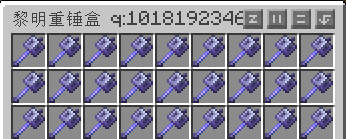
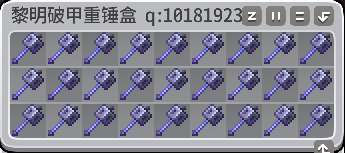
feat: update item listings and images

diff --git a/index.html b/index.html
@@ -172,7 +172,6 @@
       max-width: 100%;
       margin: 0 auto;
       object-fit: contain;
-      background: #fff;
     }
 
     .business,
@@ -336,8 +335,12 @@
           <img src="Data/Kits/equipment/018.png" width="341" height="139" alt="黎明长矛盒">
         </article>
         <article class="kit-card">
-          <h3>黎明重锤盒（破甲）</h3>
-          <img src="Data/Kits/equipment/019.png" width="341" height="139" alt="黎明重锤盒（破甲）">
+          <h3>破甲重锤</h3>
+          <img src="Data/Kits/equipment/019.png" width="341" height="139" alt="破甲重锤">
+        </article>
+        <article class="kit-card">
+          <h3>致密重锤</h3>
+          <img src="Data/Kits/equipment/021.png" width="341" height="139" alt="致密重锤">
         </article>
         <article class="kit-card">
           <h3>Star8989日常kit</h3>
@@ -432,8 +435,8 @@
           <img src="Data/Kits/all-items/001.png" width="341" height="139" alt="附魔书">
         </article>
         <article class="kit-card">
-          <h3>红石</h3>
-          <img src="Data/Kits/all-items/002.png" width="341" height="139" alt="红石">
+          <h3>音乐盒</h3>
+          <img src="Data/Kits/all-items/034.png" width="341" height="139" alt="音乐盒">
         </article>
         <article class="kit-card">
           <h3>模板图鉴</h3>
@@ -500,80 +503,128 @@
           <img src="Data/Kits/all-items/018.png" width="341" height="139" alt="全方块套装-12">
         </article>
         <article class="kit-card">
-          <h3>画图套装-1</h3>
+          <h3>全物品-1</h3>
+          <img src="Data/Kits/all-items/038.png" width="341" height="139" alt="全物品-1">
+        </article>
+        <article class="kit-card">
+          <h3>全物品-2</h3>
+          <img src="Data/Kits/all-items/039.png" width="341" height="139" alt="全物品-2">
+        </article>
+        <article class="kit-card">
+          <h3>全物品-3</h3>
+          <img src="Data/Kits/all-items/040.png" width="341" height="139" alt="全物品-3">
+        </article>
+        <article class="kit-card">
+          <h3>全物品-4</h3>
+          <img src="Data/Kits/all-items/041.png" width="341" height="139" alt="全物品-4">
+        </article>
+        <article class="kit-card">
+          <h3>全物品-5</h3>
+          <img src="Data/Kits/all-items/042.png" width="341" height="139" alt="全物品-5">
+        </article>
+        <article class="kit-card">
+          <h3>全物品-6</h3>
+          <img src="Data/Kits/all-items/043.png" width="341" height="139" alt="全物品-6">
+        </article>
+        <article class="kit-card">
+          <h3>全物品-7</h3>
+          <img src="Data/Kits/all-items/044.png" width="341" height="139" alt="全物品-7">
+        </article>
+        <article class="kit-card">
+          <h3>全物品-8</h3>
+          <img src="Data/Kits/all-items/045.png" width="341" height="139" alt="全物品-8">
+        </article>
+        <article class="kit-card">
+          <h3>全物品-9</h3>
+          <img src="Data/Kits/all-items/046.png" width="341" height="139" alt="全物品-9">
+        </article>
+        <article class="kit-card">
+          <h3>全物品-10</h3>
+          <img src="Data/Kits/all-items/047.png" width="341" height="139" alt="全物品-10">
+        </article>
+        <article class="kit-card">
+          <h3>全物品-11</h3>
+          <img src="Data/Kits/all-items/048.png" width="341" height="139" alt="全物品-11">
+        </article>
+        <article class="kit-card">
+          <h3>全物品-12</h3>
+          <img src="Data/Kits/all-items/049.png" width="341" height="139" alt="全物品-12">
+        </article>
+        <article class="kit-card">
+          <h3>全物品-13</h3>
+          <img src="Data/Kits/all-items/050.png" width="341" height="139" alt="全物品-13">
+        </article>
+        <article class="kit-card">
+          <h3>全物品-14</h3>
+          <img src="Data/Kits/all-items/051.png" width="341" height="139" alt="全物品-14">
+        </article>
+        <article class="kit-card">
+          <h3>全物品-15</h3>
+          <img src="Data/Kits/all-items/052.png" width="341" height="139" alt="全物品-15">
+        </article>
+        <article class="kit-card">
+          <h3>全物品-16</h3>
+          <img src="Data/Kits/all-items/053.png" width="341" height="139" alt="全物品-16">
+        </article>
+        <article class="kit-card">
+          <h3>全物品-17</h3>
+          <img src="Data/Kits/all-items/054.png" width="341" height="139" alt="全物品-17">
+        </article>
+        <article class="kit-card">
+          <h3>画图套装-1（缺货）</h3>
           <img src="Data/Kits/all-items/019.png" width="341" height="139" alt="画图套装-1">
         </article>
         <article class="kit-card">
-          <h3>画图套装-2</h3>
+          <h3>画图套装-2（缺货）</h3>
           <img src="Data/Kits/all-items/020.png" width="341" height="139" alt="画图套装-2">
         </article>
         <article class="kit-card">
-          <h3>画图套装-3</h3>
+          <h3>画图套装-3（缺货）</h3>
           <img src="Data/Kits/all-items/021.png" width="341" height="139" alt="画图套装-3">
         </article>
         <article class="kit-card">
-          <h3>画图套装-4</h3>
+          <h3>画图套装-4（缺货）</h3>
           <img src="Data/Kits/all-items/022.png" width="341" height="139" alt="画图套装-4">
         </article>
         <article class="kit-card">
-          <h3>画图套装-5</h3>
+          <h3>画图套装-5（缺货）</h3>
           <img src="Data/Kits/all-items/023.png" width="341" height="139" alt="画图套装-5">
         </article>
         <article class="kit-card">
-          <h3>画图套装-6</h3>
+          <h3>画图套装-6（缺货）</h3>
           <img src="Data/Kits/all-items/024.png" width="341" height="139" alt="画图套装-6">
         </article>
         <article class="kit-card">
-          <h3>画图套装-7</h3>
+          <h3>画图套装-7（缺货）</h3>
           <img src="Data/Kits/all-items/025.png" width="341" height="139" alt="画图套装-7">
         </article>
         <article class="kit-card">
-          <h3>画图套装-8</h3>
+          <h3>画图套装-8（缺货）</h3>
           <img src="Data/Kits/all-items/026.png" width="341" height="139" alt="画图套装-8">
         </article>
         <article class="kit-card">
-          <h3>画图套装-9</h3>
+          <h3>画图套装-9（缺货）</h3>
           <img src="Data/Kits/all-items/027.png" width="341" height="139" alt="画图套装-9">
         </article>
         <article class="kit-card">
-          <h3>画图套装-10</h3>
+          <h3>画图套装-10（缺货）</h3>
           <img src="Data/Kits/all-items/028.png" width="341" height="139" alt="画图套装-10">
         </article>
         <article class="kit-card">
-          <h3>画图套装-11</h3>
+          <h3>画图套装-11（缺货）</h3>
           <img src="Data/Kits/all-items/029.png" width="341" height="139" alt="画图套装-11">
         </article>
         <article class="kit-card">
-          <h3>画图套装-12</h3>
+          <h3>画图套装-12（缺货）</h3>
           <img src="Data/Kits/all-items/030.png" width="341" height="139" alt="画图套装-12">
         </article>
         <article class="kit-card">
-          <h3>画图套装-13</h3>
+          <h3>画图套装-13（缺货）</h3>
           <img src="Data/Kits/all-items/031.png" width="341" height="139" alt="画图套装-13">
         </article>
         <article class="kit-card">
-          <h3>画图套装-14</h3>
+          <h3>画图套装-14（缺货）</h3>
           <img src="Data/Kits/all-items/032.png" width="341" height="139" alt="画图套装-14">
-        </article>
-        <article class="kit-card">
-          <h3>奶盒子</h3>
-          <img src="Data/Kits/all-items/033.png" width="341" height="139" alt="奶盒子">
-        </article>
-        <article class="kit-card">
-          <h3>音乐盒</h3>
-          <img src="Data/Kits/all-items/034.png" width="341" height="139" alt="音乐盒">
-        </article>
-        <article class="kit-card">
-          <h3>线盒</h3>
-          <img src="Data/Kits/all-items/035.png" width="341" height="139" alt="线盒">
-        </article>
-        <article class="kit-card">
-          <h3>脚手架</h3>
-          <img src="Data/Kits/all-items/036.png" width="341" height="139" alt="脚手架">
-        </article>
-        <article class="kit-card">
-          <h3>白色玻璃</h3>
-          <img src="Data/Kits/all-items/037.png" width="341" height="139" alt="白色玻璃">
         </article>
       </div>
     </section>
@@ -600,6 +651,18 @@
         <article class="kit-card">
           <h3>32K装备混合包</h3>
           <img src="Data/Kits/contraband/005.png" width="341" height="139" alt="32K装备混合包">
+        </article>
+        <article class="kit-card">
+          <h3>刷怪笼</h3>
+          <img src="Data/Kits/contraband/007.png" width="341" height="139" alt="刷怪笼">
+        </article>
+        <article class="kit-card">
+          <h3>基岩</h3>
+          <img src="Data/Kits/contraband/006.png" width="341" height="139" alt="基岩">
+        </article>
+        <article class="kit-card">
+          <h3>违禁品合集</h3>
+          <img src="Data/Kits/contraband/008.png" width="341" height="139" alt="违禁品合集">
         </article>
       </div>
     </section>
@@ -648,8 +711,8 @@
           <img src="Data/Kits/more-items/010.png" width="341" height="139" alt="字母盒">
         </article>
         <article class="kit-card">
-          <h3>石英盒</h3>
-          <img src="Data/Kits/more-items/011.png" width="341" height="139" alt="石英盒">
+          <h3>平滑石英盒</h3>
+          <img src="Data/Kits/more-items/011.png" width="341" height="139" alt="平滑石英盒">
         </article>
         <article class="kit-card">
           <h3>白淡灰羊毛</h3>
@@ -734,6 +797,42 @@
         <article class="kit-card">
           <h3>全混凝土</h3>
           <img src="Data/Kits/more-items/032.png" width="341" height="139" alt="全混凝土">
+        </article>
+        <article class="kit-card">
+          <h3>甘蔗盒</h3>
+          <img src="Data/Kits/more-items/033.png" width="341" height="139" alt="甘蔗盒">
+        </article>
+        <article class="kit-card">
+          <h3>乐魂鞍</h3>
+          <img src="Data/Kits/more-items/034.png" width="341" height="139" alt="乐魂鞍">
+        </article>
+        <article class="kit-card">
+          <h3>不详药水</h3>
+          <img src="Data/Kits/more-items/035.png" width="341" height="139" alt="不详药水">
+        </article>
+        <article class="kit-card">
+          <h3>石英盒</h3>
+          <img src="Data/Kits/more-items/036.png" width="341" height="139" alt="石英盒">
+        </article>
+        <article class="kit-card">
+          <h3>红石盒</h3>
+          <img src="Data/Kits/more-items/037.png" width="341" height="139" alt="红石盒">
+        </article>
+        <article class="kit-card">
+          <h3>白色玻璃</h3>
+          <img src="Data/Kits/more-items/038.png" width="341" height="139" alt="白色玻璃">
+        </article>
+        <article class="kit-card">
+          <h3>奶盒子</h3>
+          <img src="Data/Kits/more-items/039.png" width="341" height="139" alt="奶盒子">
+        </article>
+        <article class="kit-card">
+          <h3>线盒</h3>
+          <img src="Data/Kits/more-items/040.png" width="341" height="139" alt="线盒">
+        </article>
+        <article class="kit-card">
+          <h3>脚手架</h3>
+          <img src="Data/Kits/more-items/041.png" width="341" height="139" alt="脚手架">
         </article>
       </div>
     </section>
